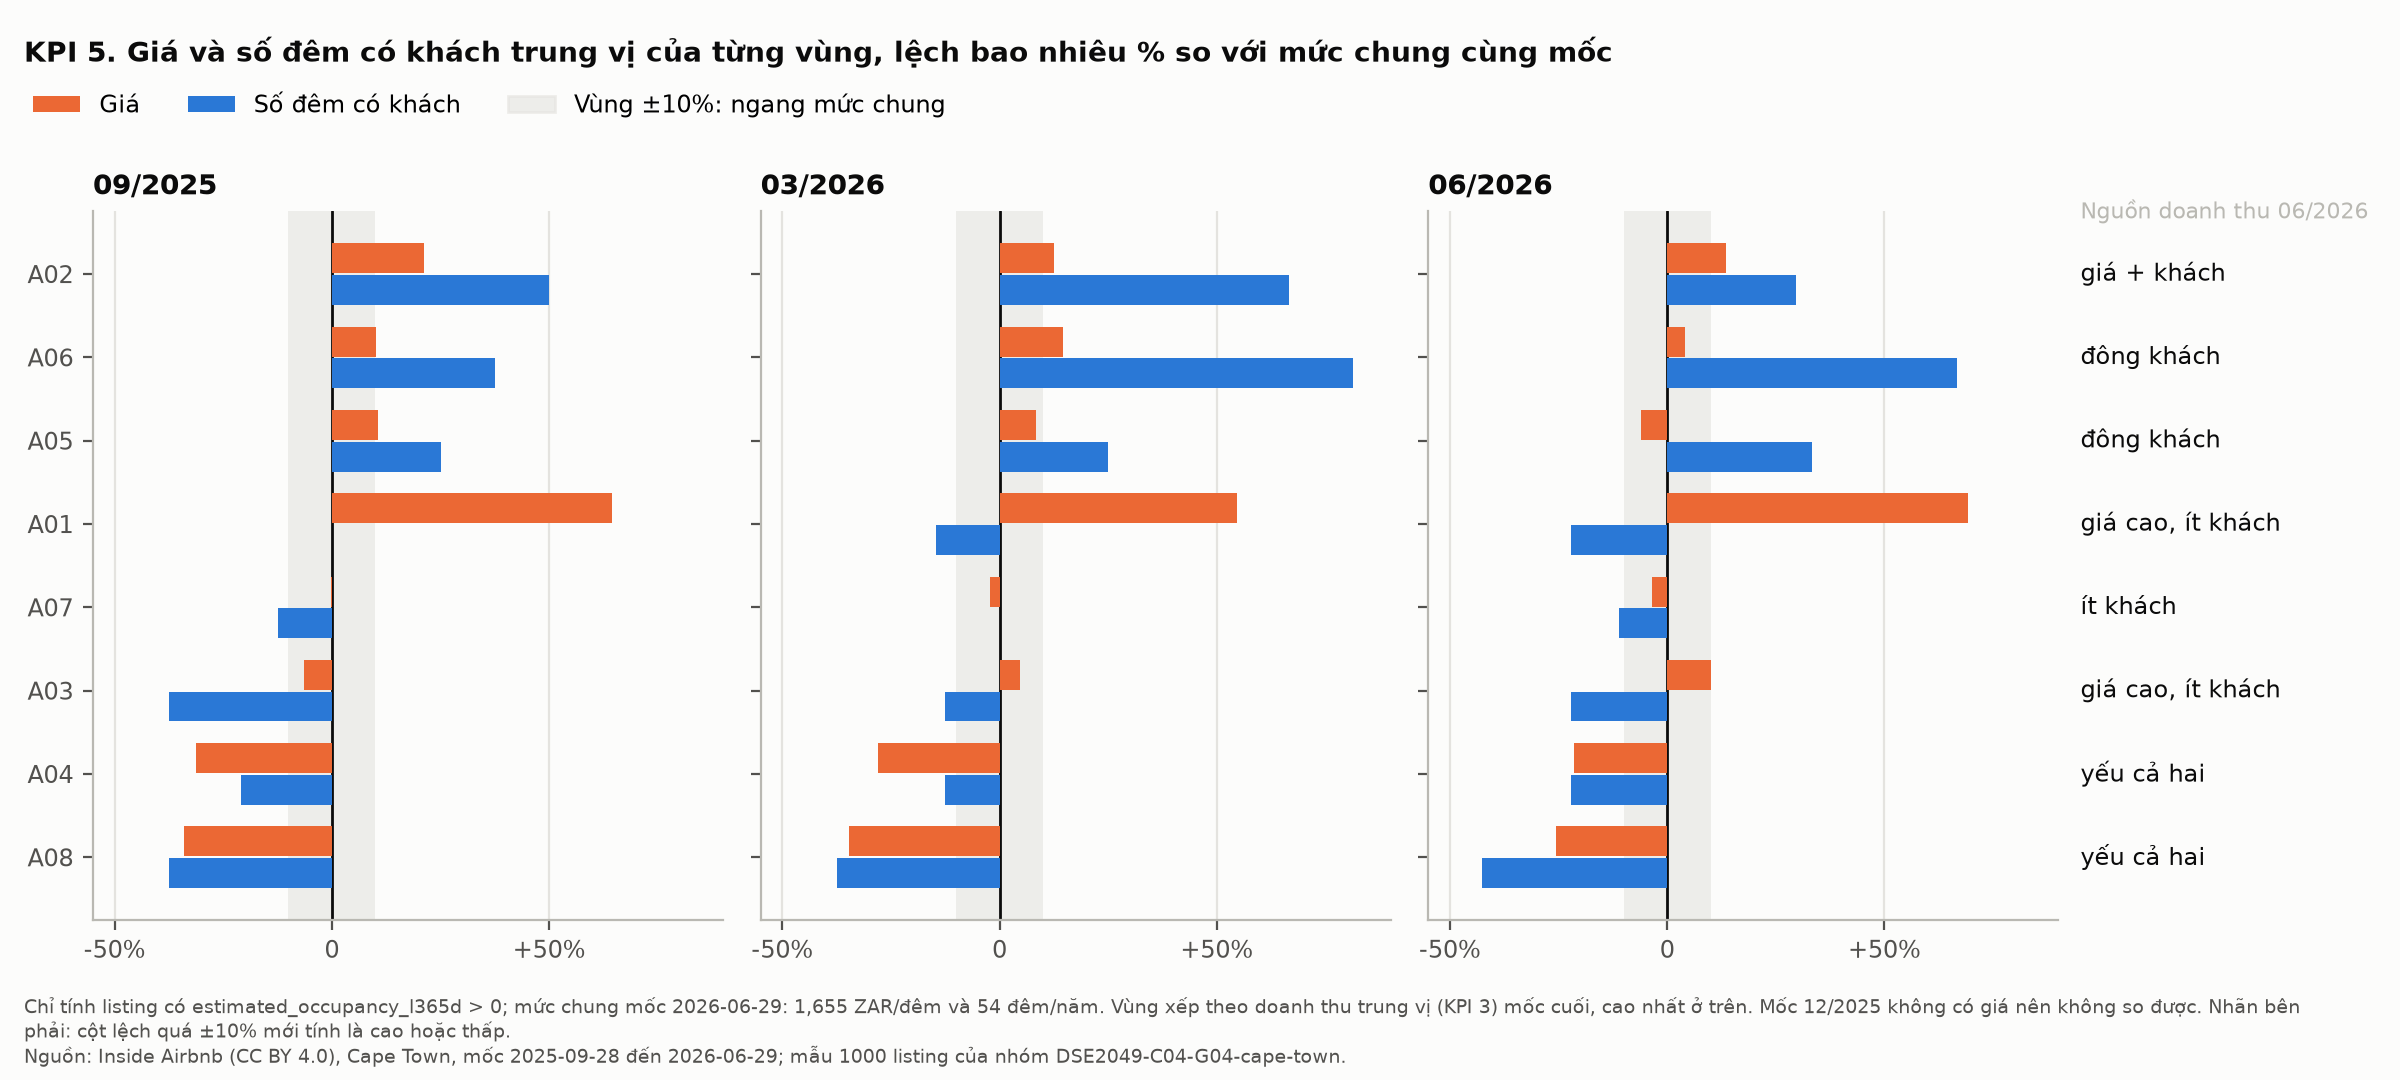
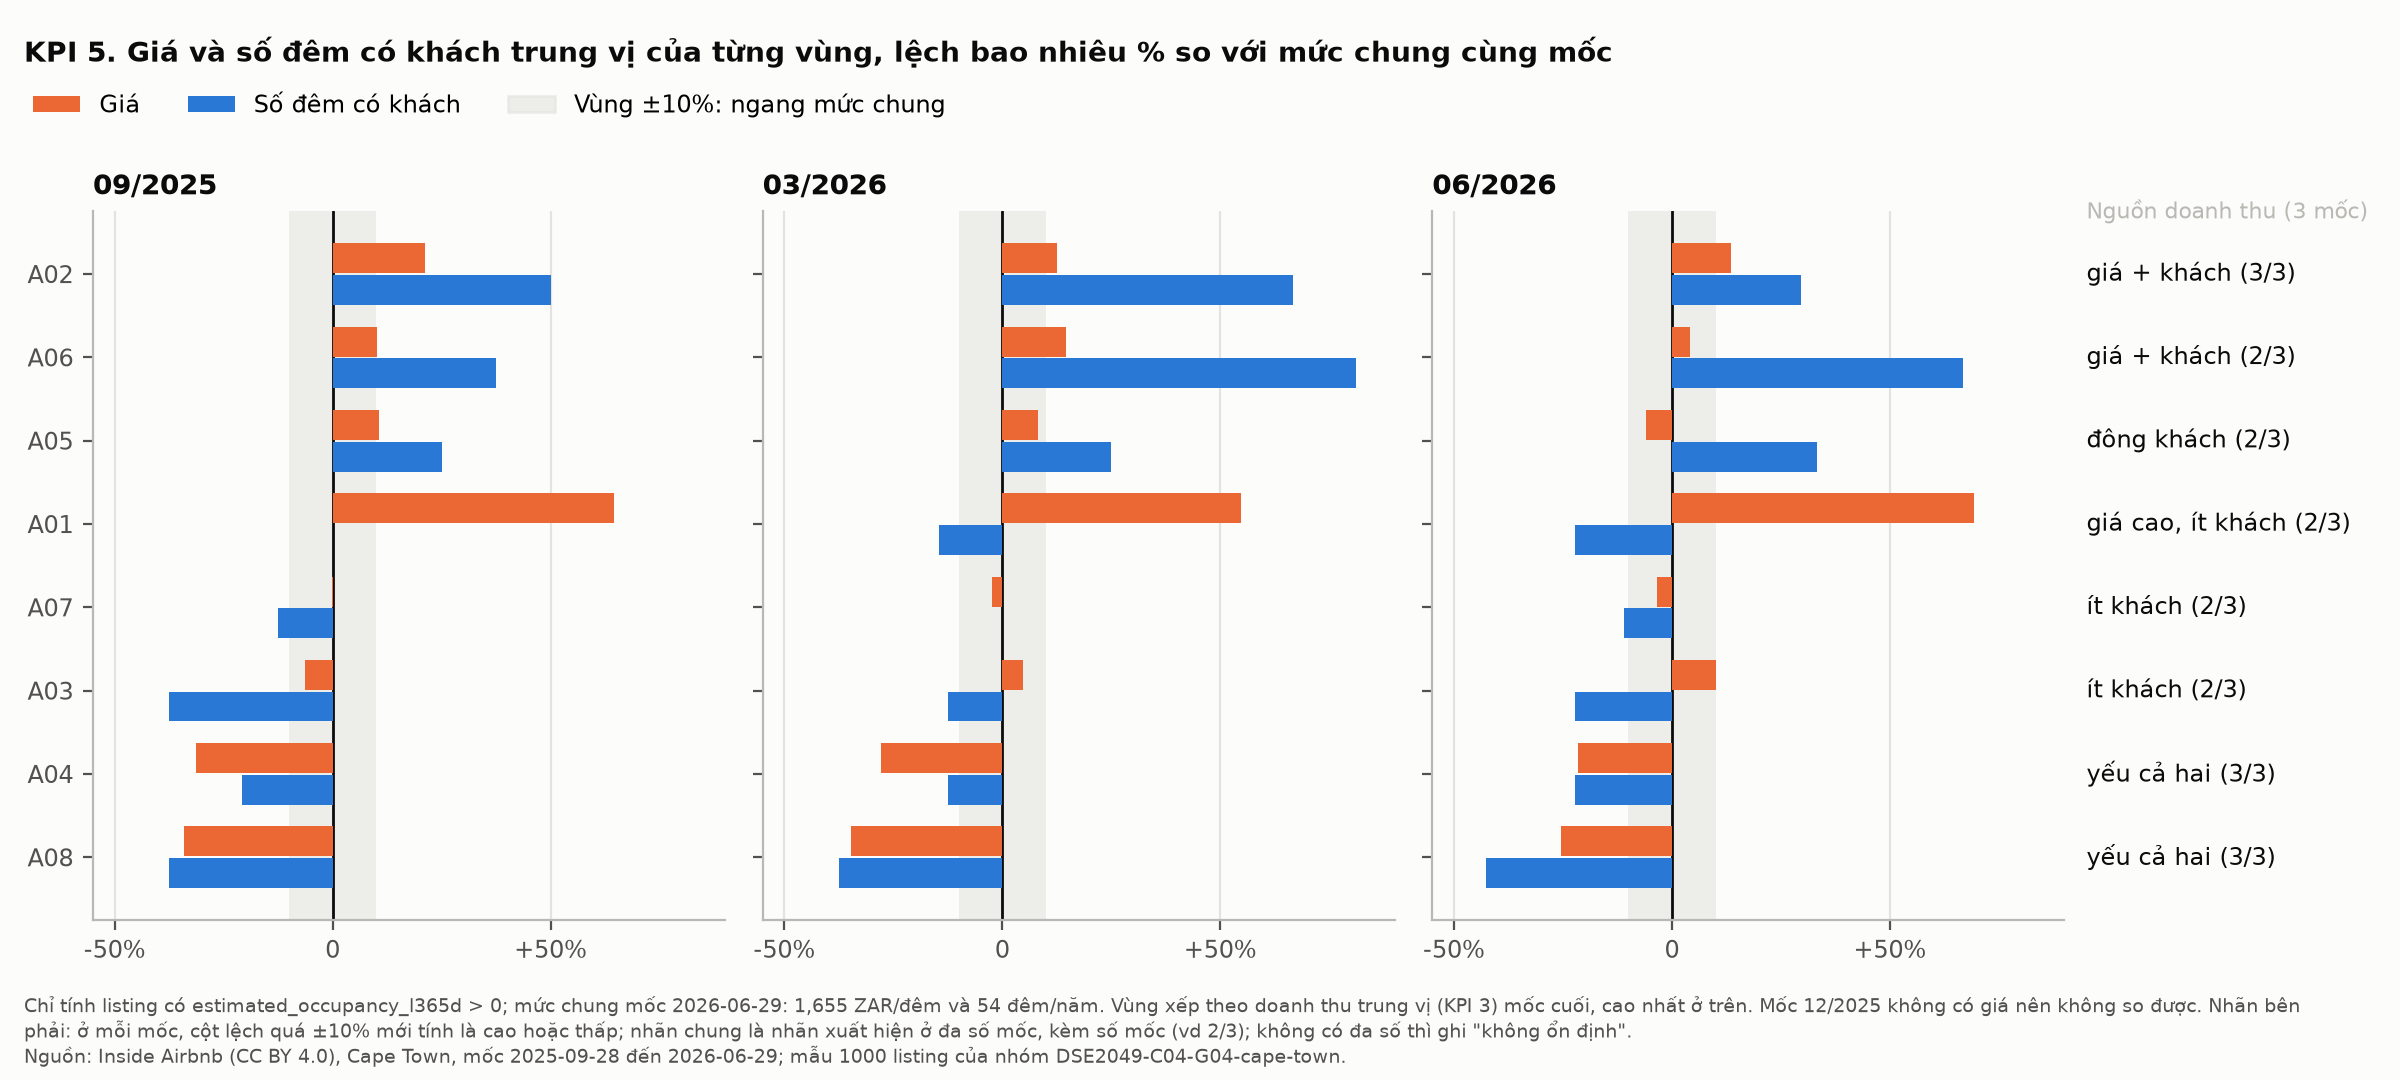
KPI 5: right-hand label is a majority verdict across the 3 snapshots
Each snapshot gets a label from the ±10% rule; the column now shows the label
that appears in at least 2 of 3 snapshots with its count (e.g. "đông khách (2/3)"),
or "không ổn định" when there is no majority. README and AI_USAGE updated;
the other five figures are unchanged.

Claude-Session: https://claude.ai/code/session_01874EwekgaViw6qqrNFpfS6

diff --git a/src/viz.py b/src/viz.py
@@ -97,19 +97,24 @@ def fig5_revenue_drivers(cfg):
     rev = kpi("median_revenue")
     order = rev[rev["snapshot"] == snaps[-1]].sort_values("value", ascending=False)["group"].tolist()  # doanh thu cao ở trên
     f, axs = plt.subplots(1, len(snaps), figsize=(12, 5.4), sharey=True)
+    tags = []  # nhãn của từng vùng ở từng mốc, để lấy nhãn chung theo đa số
     for ax, snap in zip(axs, snaps):
         d = L[L["snapshot"] == snap]
         g = d.groupby("analysis_area").agg(p=("price", "median"), o=("estimated_occupancy_l365d", "median")).reindex(order)
         g = pd.DataFrame({"p": g["p"] / d["price"].median() - 1, "o": g["o"] / d["estimated_occupancy_l365d"].median() - 1}) * 100
         y = np.arange(len(order))
+        tags.append([tag(p, o) for p, o in zip(g["p"], g["o"])])
         ax.axvspan(-10, 10, color=GRID, alpha=0.6, lw=0, zorder=0), ax.axvline(0, color=INK, lw=1, zorder=1)
         ax.barh(y - 0.19, g["p"], height=0.36, color=SERIES[1], label="Giá", zorder=2)
         ax.barh(y + 0.19, g["o"], height=0.36, color=SERIES[0], label="Số đêm có khách", zorder=2)
         ax.set(yticks=y, yticklabels=order, xlim=(-55, 90), xticks=[-50, 0, 50], title=f"{snap[5:7]}/{snap[:4]}")
         ax.xaxis.set_major_formatter(plt.FuncFormatter(lambda v, _: f"{v:+.0f}%" if v else "0")), ax.grid(axis="y", visible=False)
     axs[0].invert_yaxis()
-    [note(axs[-1], tag(p, o), (90, i), 8, va="center", fontsize=8.5, color=INK) for i, (p, o) in enumerate(zip(g["p"], g["o"]))]
-    note(axs[-1], f"Nguồn doanh thu {snaps[-1][5:7]}/{snaps[-1][:4]}", (90, -0.75), 8, va="center", color=MUTED)
+    for i, ts in enumerate(zip(*tags)):  # nhãn chung: nhãn xuất hiện ở ít nhất 2/3 mốc, ghi kèm số mốc; không có thì "không ổn định"
+        top = max(set(ts), key=ts.count)
+        note(axs[-1], f"{top} ({ts.count(top)}/{len(ts)})" if ts.count(top) * 2 > len(ts) else "không ổn định", (90, i), 8,
+             va="center", fontsize=8.5, color=INK)
+    note(axs[-1], f"Nguồn doanh thu ({len(snaps)} mốc)", (90, -0.75), 8, va="center", color=MUTED)
     h, lab = axs[0].get_legend_handles_labels()  # dòng trống trong tiêu đề chừa chỗ cho chú giải, không đè tiêu đề mốc
     f.suptitle("KPI 5. Giá và số đêm có khách trung vị của từng vùng, lệch bao nhiêu % so với mức chung cùng mốc\n ",
                x=0.01, ha="left", va="top", fontsize=10, fontweight="bold", color=INK, linespacing=2.2)
@@ -119,7 +124,8 @@ def fig5_revenue_drivers(cfg):
     return f, ("Chỉ tính listing có estimated_occupancy_l365d > 0; mức chung mốc "
                f"{snaps[-1]}: {mid['price'].median():,.0f} {cfg['currency']}/đêm và {mid['estimated_occupancy_l365d'].median():.0f} đêm/năm. "
                "Vùng xếp theo doanh thu trung vị (KPI 3) mốc cuối, cao nhất ở trên. Mốc 12/2025 không có giá nên không so được. "
-               "Nhãn bên phải: cột lệch quá ±10% mới tính là cao hoặc thấp.")
+               "Nhãn bên phải: ở mỗi mốc, cột lệch quá ±10% mới tính là cao hoặc thấp; nhãn chung là nhãn "
+               f"xuất hiện ở đa số mốc, kèm số mốc (vd 2/{len(snaps)}); không có đa số thì ghi \"không ổn định\".")
 
 
 def fig6_llm_vs_baseline(cfg):

diff --git a/README.md b/README.md
@@ -114,7 +114,7 @@ Mọi KPI được tính theo `analysis_area` (A01–A08) và `neighbourhood_cle
 
 **Hình KPI 5 (nguồn doanh thu).** Doanh thu ≈ giá × số đêm, nên hình tách doanh thu của mỗi vùng thành hai phần: giá trung vị và số đêm có khách trung vị, mỗi phần tính bằng % lệch so với trung vị toàn mẫu cùng mốc. Chỉ tính listing có occupancy > 0, nên mức chung mốc 2026-06-29 là 1,655 ZAR/đêm (khác 1,683.5 của KPI 2, vốn tính mọi listing có giá) và 54 đêm/năm. Vùng xếp theo doanh thu trung vị (KPI 3) ở mốc cuối.
 
-Nhãn bên phải (mốc cuối) dựa trên dải ±10%: lệch quá +10% là cao, dưới −10% là thấp, còn lại là ngang mức chung. Ví dụ: "giá + khách" (cả hai cao), "đông khách" (số đêm cao), "giá cao, ít khách", "ít khách", "yếu cả hai". Ở mốc 2026-06-29: A02 giá + khách; A06, A05 đông khách; A01, A03 giá cao, ít khách; A07 ít khách; A04, A08 yếu cả hai.
+Nhãn bên phải là kết luận chung cho cả 3 mốc. Ở mỗi mốc, mỗi cột lệch quá +10% là cao, dưới −10% là thấp, còn lại là ngang mức chung; từ đó gán một nhãn: "giá + khách" (cả hai cao), "đông khách" (số đêm cao), "nhờ giá" (giá cao), "giá cao, ít khách", "ít khách", "giá thấp", "yếu cả hai" hoặc "ngang mức chung". Nhãn chung là nhãn xuất hiện ở đa số mốc (ít nhất 2/3), ghi kèm số mốc; nếu cả 3 mốc khác nhau thì ghi "không ổn định". Kết quả: A02 giá + khách (3/3); A06 giá + khách (2/3); A05 đông khách (2/3); A01 giá cao, ít khách (2/3); A07 ít khách (2/3); A03 ít khách (2/3); A04 và A08 yếu cả hai (3/3). Nhãn 2/3 của A06 và A07 nằm sát ngưỡng 10% nên kém chắc hơn. Số đêm là số 365 ngày trước mỗi mốc nên khung thời gian các mốc chồng nhau; "3/3" không phải 3 lần đo độc lập.
 
 ## Hạn chế đã biết (cần nêu trong báo cáo)
 

diff --git a/AI_USAGE.md b/AI_USAGE.md
@@ -88,6 +88,7 @@ keep the code as short as under 50 lines
 - "run_pipeline.py: it doesn't exist yet, and it's required. README: it must match the new commands. and fix all detected problems" (dẫn tới các thay đổi dưới đây).
 - Gửi ảnh mẫu 5 biểu đồ KPI của nhóm và công thức nhóm màu doanh thu cho KPI 5.
 - "thay hình đó cho hình cũ ở kpi5": thay bubble bằng biểu đồ thanh lệch % giá và số đêm theo 3 mốc (theo ảnh mẫu của nhóm).
+- Hỏi nhãn cột cuối nên là kết luận chung cho cả 3 mốc không, cách nào hợp lý nhất; nhóm chốt cách đa số 2/3 mốc, ghi kèm số mốc, không có đa số thì ghi "không ổn định".
 
 **Thay đổi theo từng tệp:**
 - `run_pipeline.py` (mới): một lệnh chạy 7 bước, nạp `.env`, có `--skip-llm`, `--from`, `--only`, dừng khi một bước lỗi.
